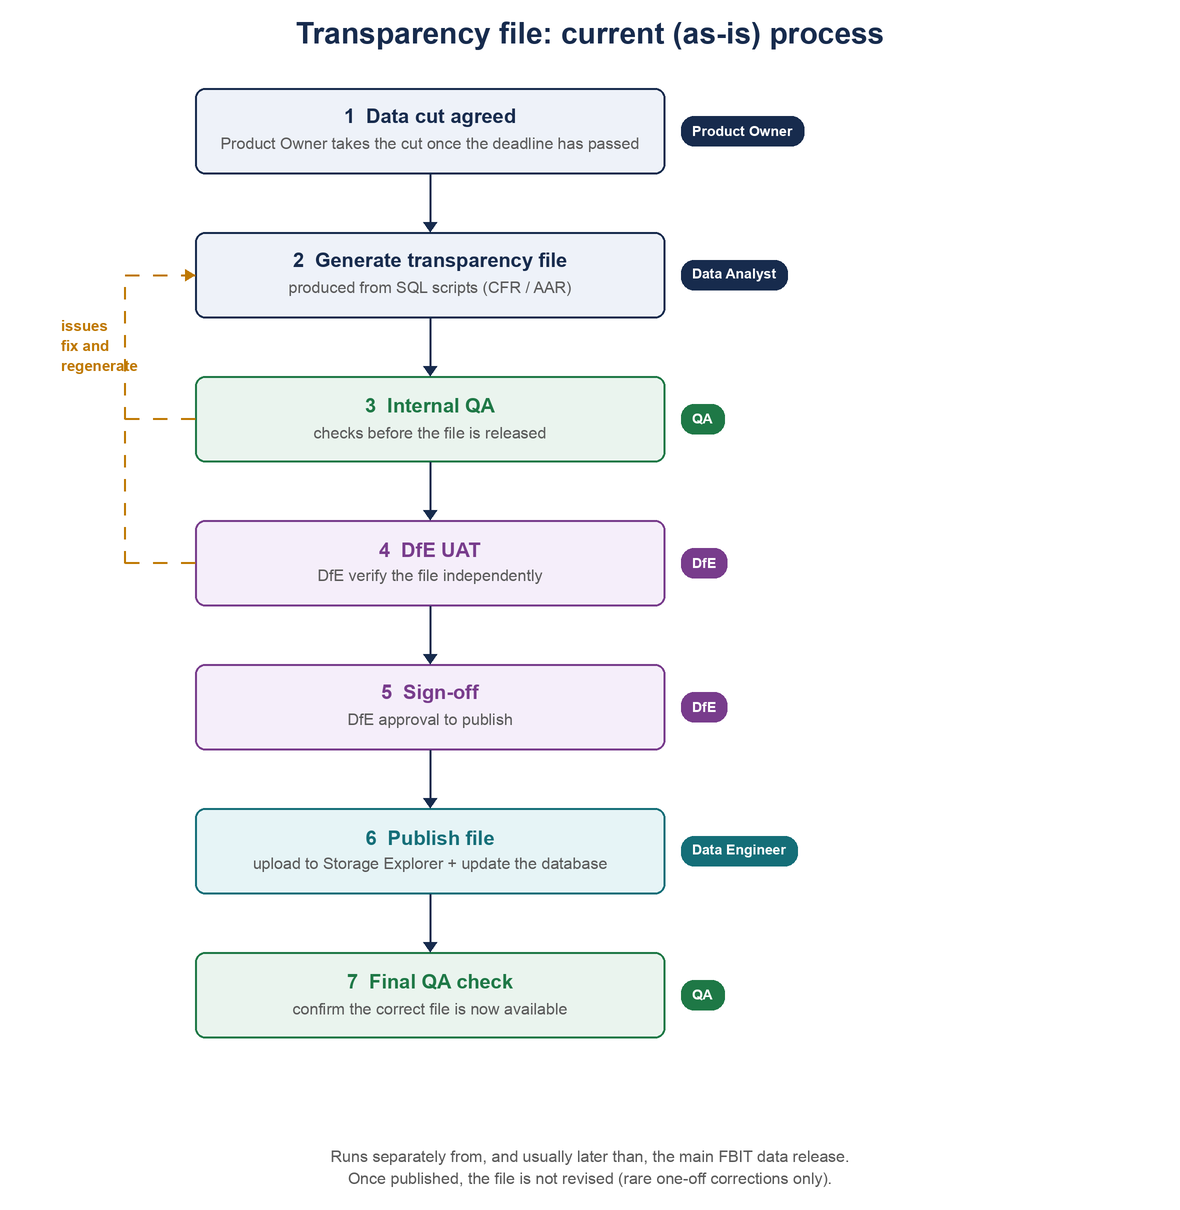
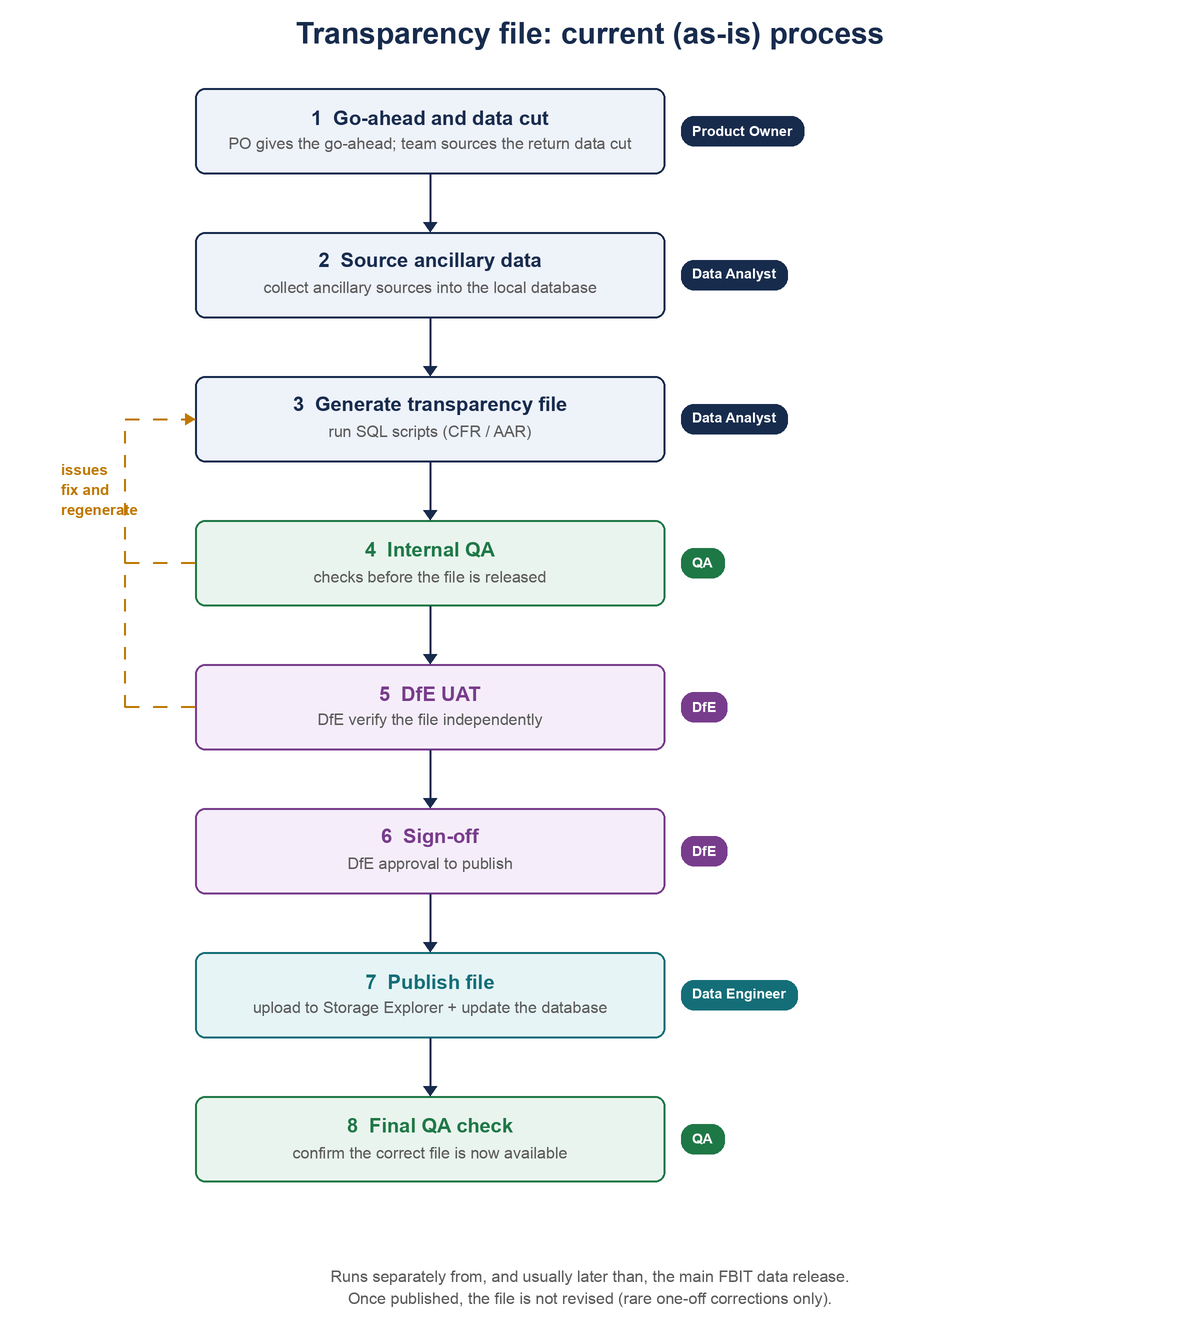
docs: resovle comments

diff --git a/documentation/guides/transparency-file/1_Current-As-Is-Process.md b/documentation/guides/transparency-file/1_Current-As-Is-Process.md
@@ -6,47 +6,62 @@ This document records the current, end-to-end process for producing and publishi
 
 ## What the transparency file is
 
-The transparency file is a published Excel workbook that exposes the financial data behind FBIT in a downloadable form. There is one for CFR (maintained schools) and one for AAR (academies and trusts). Each is released alongside its financial data, but as a separate artefact from the main FBIT service, and each includes an index tab that records the file version and a summary of what has changed. Where columns overlap, the figures should reconcile with the service.
+The transparency file is a published Excel workbook that exposes the financial data behind FBIT in a downloadable form. There is one for CFR (maintained schools) and one for AAR (academies and trusts). Publishing it is a legal requirement, and it is used mainly by DfE analysts.
+
+It contains:
+
+* raw data points from the financial returns,
+* ancillary (contextual) data about each school,
+* some FBIT roll-ups, and
+* ancillary data that is not included in FBIT.
+
+Assembling the file involves federation and DNS (Did Not Submit) handling, ancillary joins, and roll-ups.
+
+Each file is released alongside its financial data, but as a separate artefact from the main FBIT service, and each includes an index tab that records the file version and a summary of what has changed. Where columns overlap with FBIT, the figures should reconcile with the service.
 
 ## Roles
 
-| Role          | Responsibility                                                               |
-|:--------------|:-----------------------------------------------------------------------------|
-| Product Owner | Decides when to take the data cut.                                           |
-| Data Analyst  | Produces the transparency file from the SQL scripts.                         |
-| QA            | Runs internal checks before release and the final check after publish.       |
-| DfE           | Carries out UAT and provides sign-off.                                       |
-| Data Engineer | Publishes the approved file: uploads it to storage and updates the database. |
+| Role          | Responsibility                                                                                  |
+|:--------------|:------------------------------------------------------------------------------------------------|
+| Product Owner | Gives the go-ahead to start once the submission deadline has passed.                            |
+| Data Analyst  | Sources the return and ancillary data, and produces the transparency file from the SQL scripts. |
+| QA            | Runs internal checks before release and the final check after publish.                          |
+| DfE           | Carries out UAT and provides sign-off.                                                          |
+| Data Engineer | Publishes the approved file: uploads it to storage and updates the database.                    |
 
 ## The process
 
 ![Current as-is transparency file process](./images/transparency-file-as-is-process.png)
 
-### 1. Data cut agreed
+### 1. Go-ahead and data cut
 
-CFR and AAR each have a submission deadline. Not all schools and academies submit at the same time, so once the deadline has passed the Product Owner takes a frozen cut of the submission data. That cut is the basis for the release.
+CFR and AAR each have a submission deadline. Once the deadline has passed, the Product Owner gives the go-ahead to start. The Product Owner does not provide the data itself: the team sources the cut of the financial return data (CFR or AAR) from source. That cut is the basis for the release.
 
-### 2. Generate the transparency file
+### 2. Source the ancillary data
 
-The CFR and AAR transparency files are produced by running their respective SQL scripts against the raw data. The output is the transparency workbook for that release.
+All ancillary data sources (for example GIAS, Census, SEN, PRU, and hospital schools) are sourced and collected into the local database. These provide the contextual data about each school that aligns with the CFR or AAR return, and must be in place before the SQL scripts are run to generate the file.
 
-### 3. Internal QA
+### 3. Generate the transparency file
+
+The CFR and AAR transparency files are produced by running their respective SQL scripts against the return and ancillary data. The output is the transparency workbook for that release.
+
+### 4. Internal QA
 
 The file is checked internally before it is released. Checks include reconciling the file totals against FBIT, confirming federation and DNS (Did Not Submit) handling so schools are not double-counted, and completeness checks against the previous year. If issues are found, the file is corrected, regenerated, and re-checked.
 
-### 4. DfE UAT
+### 5. DfE UAT
 
 The file is passed to DfE, who verify it independently as part of user acceptance testing. Any issues raised are fed back, fixed, and the file is regenerated and re-checked.
 
-### 5. Sign-off
+### 6. Sign-off
 
 Once DfE are satisfied, they sign off the file. This approval authorises publication.
 
-### 6. Publish the file
+### 7. Publish the file
 
 After sign-off, the Data Engineer uploads the approved file to storage (via Storage Explorer) and updates the database so the new version is listed as available on the service.
 
-### 7. Final QA check
+### 8. Final QA check
 
 QA then does a final check to confirm the correct file is now available on the service.
 
